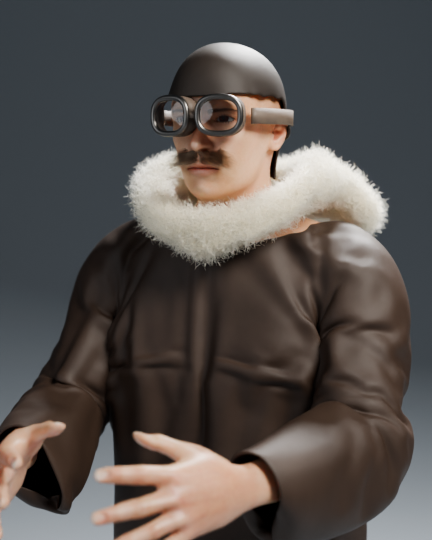
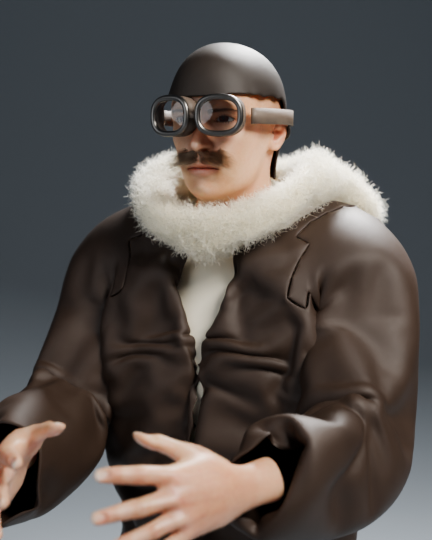
Jacket from sewn panels with open front over a shirt (run 006, steps 3-4)
Claude-Session: https://claude.ai/code/session_01CDvtC8YtMDTCkqUDhevinG

diff --git a/recipes/garments.py b/recipes/garments.py
@@ -221,6 +221,69 @@ def part(binding):
     return _body_coordinates()["part"][binding["tri"][:, 0]]
 
 
+def _split_panels(faces, tri, weight, sources, spec):
+    """Cut a garment into panels and return what is needed to sew them back together.
+
+    Panels: left and right sleeve, and the body split down the centre front only (the
+    back stays in one piece). Where panels meet, each gets its own copy of the shared
+    vertices, and a loose edge between the copies acts as a sewing spring in the cloth
+    simulation. The centre front is sewn only below spec["open_above"] (a torso height);
+    above it the two edges are moved apart to form an opening.
+
+    Returns (faces, tri, weight, nudge[n,3] in metres, sewing edges).
+    """
+    c = _body_coordinates()
+    vb, part = c["vb"], c["part"]
+    y_mid = vb[TIGHTS[0]:TIGHTS[1] + 1, 1].mean()
+
+    def panel(src):
+        left = vb[list(src), 0].mean() > 0
+        if all(part[v] in ("arm", "hand") for v in src):
+            return "SL" if left else "SR"
+        return "TL" if left else "TR"
+
+    face_panel = [panel(src) for src in sources]
+    users = {}
+    for f, p in zip(faces, face_panel):
+        for gv in f:
+            users.setdefault(gv, set()).add(p)
+    height = (c["h"][tri] * weight).sum(axis=1)
+    new_tri, new_weight = [tuple(t) for t in tri], [tuple(w) for w in weight]
+    nudge = [np.zeros(3) for _ in tri]
+    remap, sew = {}, []
+    for gv, panels in users.items():
+        b = tri[gv][0]
+        front_mid = abs(vb[b][0]) < 1e-3 and vb[b][1] < y_mid
+        torso = sorted(p for p in panels if p[0] == "T")
+        classes = []
+        if len(torso) == 2 and front_mid:
+            classes += [[torso[0]], [torso[1]]]
+        elif torso:
+            classes.append(torso)
+        classes += [[p] for p in sorted(panels) if p[0] == "S"]
+        copies = []
+        for k, cls in enumerate(classes):
+            if k == 0:
+                idx = gv
+            else:
+                idx = len(new_tri)
+                new_tri.append(tuple(tri[gv])); new_weight.append(tuple(weight[gv])); nudge.append(np.zeros(3))
+            for p in cls:
+                remap[(gv, p)] = idx
+            copies.append(idx)
+        if len(torso) == 2 and front_mid:
+            gap = 0.003 + 0.14 * max(0.0, height[gv] - spec["open_above"])
+            nudge[copies[0]] = np.array([gap, 0.0, 0.0])     # TL copy moves to the wearer's left
+            nudge[copies[1]] = np.array([-gap, 0.0, 0.0])
+            if height[gv] <= spec["open_above"]:
+                sew.append((copies[0], copies[1]))
+            sew += [(copies[0], other) for other in copies[2:]]
+        else:
+            sew += [(copies[0], other) for other in copies[1:]]
+    new_faces = [tuple(remap[(gv, p)] for gv in f) for f, p in zip(faces, face_panel)]
+    return new_faces, np.array(new_tri, dtype=int), np.array(new_weight), np.array(nudge), sew
+
+
 def _vertex_normals(verts, faces):
     normals = np.zeros_like(verts)
     for f in faces:
@@ -231,17 +294,38 @@ def _vertex_normals(verts, faces):
     return normals / np.maximum(length, 1e-12)
 
 
+def _vertex_normals_welded(verts, faces):
+    """Vertex normals where vertices at the same position share one normal."""
+    key = {}
+    group = np.array([key.setdefault(tuple(np.round(v, 6)), len(key)) for v in verts])
+    normals = np.zeros((len(key), 3))
+    for f in faces:
+        n = np.cross(verts[f[1]] - verts[f[0]], verts[f[2]] - verts[f[0]])
+        for v in f:
+            normals[group[v]] += n
+    length = np.linalg.norm(normals, axis=1, keepdims=True)
+    return (normals / np.maximum(length, 1e-12))[group]
+
+
 def build(scene, base_verts, garment, name, parent=None):
     """Create the garment object on a given (morphed) body. Returns (object, binding)."""
     all_bl = human.to_blender(base_verts)
     _, uvs, all_faces, all_face_uvs = human.base_mesh()
     uv_of = {f: fu for f, fu in zip(all_faces, all_face_uvs)}
     faces, tri, weight, sources = _cut(garment)
+    sewing = []
+    nudge = None
+    if garment.get("panels"):
+        faces, tri, weight, nudge, sewing = _split_panels(faces, tri, weight, sources, garment["panels"])
     verts = (all_bl[tri] * weight[:, :, None]).sum(axis=1)
-    verts = verts + garment["ease"] * _vertex_normals(verts, faces)
+    # Normals are taken before panels are moved apart, so both copies of a seam vertex
+    # get the same push outward.
+    verts = verts + garment["ease"] * _vertex_normals_welded(verts, faces)
+    if nudge is not None:
+        verts = verts + nudge
 
     mesh = bpy.data.meshes.new(name)
-    mesh.from_pydata(verts.tolist(), [], faces)
+    mesh.from_pydata(verts.tolist(), sewing, faces)
     # UVs: a slid corner takes the UV part-way along the same edge, when that edge is in
     # this face; otherwise it keeps its own UV (a small stretch at the hem).
     flat = []

diff --git a/runs/006-draped-jacket/build.py b/runs/006-draped-jacket/build.py
@@ -24,10 +24,16 @@ SLIDERS = dict(gender=1.0, age=0.55, muscle=0.6, weight=0.55, height=0.5,
 
 scene = stage.new_scene()
 leather = materials.leather("Jacket leather", (0.032, 0.017, 0.010), on="garment", wear=0.3, grain=0.0014)
+jacket_spec = garments.top(name="jacket", sleeve=1.95, collar=0.93, hem=-0.16, ease=0.035,
+                           thickness=0.005, material=leather, soften=0)
+# Step 3: the jacket is cut into panels (two fronts, back, sleeves) that the simulation
+# sews together; the centre front stays open above mid-chest, over an undershirt.
+jacket_spec["panels"] = {"open_above": 0.62}
 pilot = human.build_human(
     scene, name="Pilot", skin="middleage_caucasian_male", hair=None, eyes="brown",
-    outfit=(garments.top(name="jacket", sleeve=1.95, collar=0.93, hem=-0.16, ease=0.035,
-                         thickness=0.005, material=leather, soften=6),
+    outfit=(jacket_spec,
+            garments.top(name="shirt", sleeve=0.4, collar=0.99, hem=-0.05, ease=0.006,
+                         material=materials.fabric((0.80, 0.74, 0.60), on="garment")),
             garments.collar(low=0.90, high=1.07, ease=0.05, thickness=0.035),
             garments.helmet(material=materials.leather("Helmet leather", (0.022, 0.015, 0.011), wear=0.3, grain=0.0014)),
             garments.trousers(material=materials.fabric((0.30, 0.27, 0.20), on="garment"))),
@@ -40,12 +46,15 @@ materials.soften_skin(body.data.materials[0])
 binding = human.BINDINGS[jacket.name]
 h = garments.coordinate(binding, "h")
 on_arm = np.isin(garments.part(binding), ("arm", "hand"))
-pin = np.where(on_arm, 0.0, np.clip((h - 0.86) / 0.06, 0.0, 1.0))
+arm = garments.coordinate(binding, "arm")
+# Step 3 left the sleeves unpinned: their weight pulled the shoulder seams open. The top
+# of each sleeve is now held as well, fading out over the first fifth of the upper arm.
+pin = np.where(on_arm, np.clip((0.20 - arm) / 0.14, 0.0, 1.0), np.clip((h - 0.86) / 0.06, 0.0, 1.0))
 # Step 1 collided with the visible body, whose skin under the jacket is removed: the
 # sleeves fell onto bare arms. The cloth now rests on a complete invisible copy.
 solid_body = next(c for c in pilot.children if c.name.endswith("_collider"))
 cloth.make_collider(solid_body)
-cloth.add_cloth(jacket, pin_weights=pin, fabric="leather", spare=0.06)
+cloth.add_cloth(jacket, pin_weights=pin, fabric="leather", spare=0.06, sewing_force=60.0)
 before_v, before_f = hair.evaluated_mesh(jacket)
 started = time.time()
 frames = cloth.simulate(scene, 45)

diff --git a/recipes/cloth.py b/recipes/cloth.py
@@ -35,7 +35,7 @@ def make_collider(obj, thickness=0.006):
 
 
 def add_cloth(obj, pin_weights=None, fabric="cotton", spare=0.05, resolution=1, quality=10,
-              clearance=0.006, self_collision=True):
+              clearance=0.006, self_collision=True, sewing_force=12.0):
     """Make a garment object simulate as cloth.
 
     pin_weights: one value per base vertex of the garment, 1 = fixed to the skeleton.
@@ -60,6 +60,9 @@ def add_cloth(obj, pin_weights=None, fabric="cotton", spare=0.05, resolution=1, 
     s.shear_stiffness, s.bending_stiffness = f["shear"], f["bending"]
     s.air_damping = f["air"]
     s.shrink_min = -spare
+    if any(e.is_loose for e in obj.data.edges):   # panels joined by sewing edges
+        s.use_sewing_springs = True
+        s.sewing_force_max = sewing_force
     if pin_weights is not None:
         group = obj.vertex_groups.new(name="cloth_pin")
         for i, w in enumerate(pin_weights):
